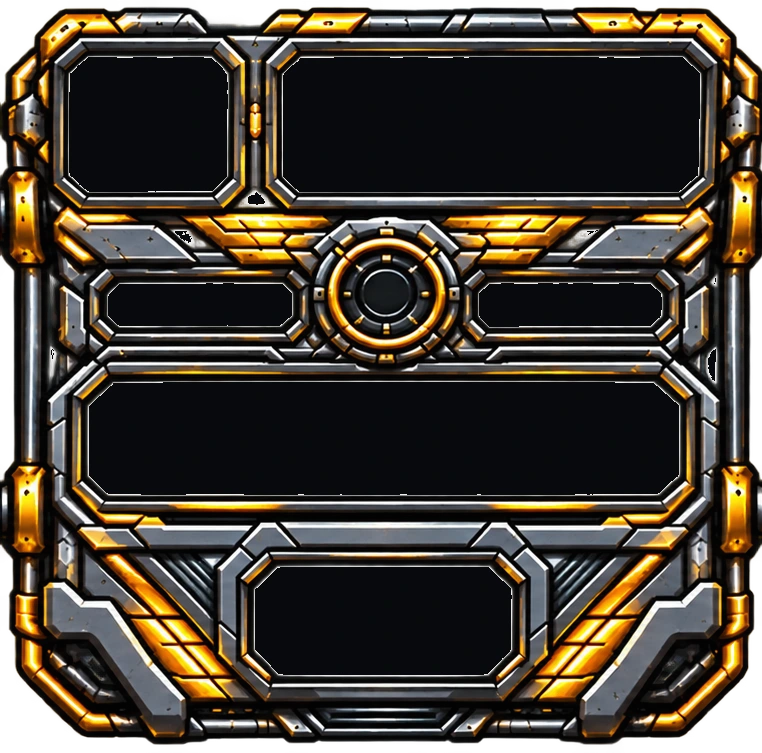
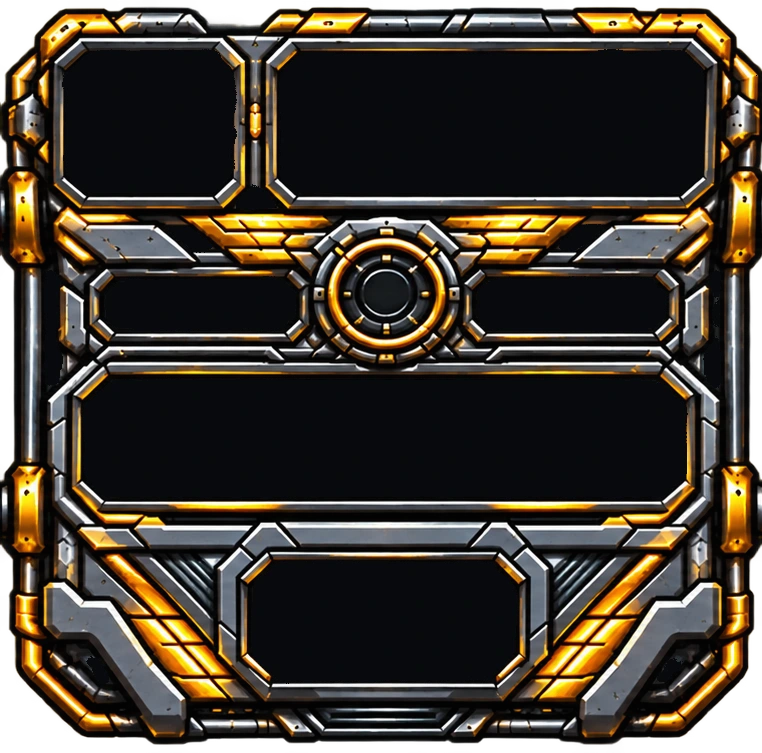
fix(machine): Max comme + et - ; cadre lumineux seulement sur l'afficheur Allouee (plus sur Cible) ; fond des cadres entierement opaque (plus rien de lisible derriere) ; durees longues sans coupure

diff --git a/cloudflare/public/soreal-idle-machine.css b/cloudflare/public/soreal-idle-machine.css
@@ -12,9 +12,9 @@
 .tmm-machine.tmm-sans-magie{grid-template-columns:576fr 762fr}
 /* ---- une carte = une image (576 x 753, 762 x 753, 580 x 753) ---- */
 .tmm-tour,.tmm-centre{position:relative;width:100%;container-type:inline-size;background-repeat:no-repeat;background-position:center;background-size:100% 100%;color:#fff1d6;padding:0;border:0}
-.tmm-gauche{aspect-ratio:576/753;--c1:#1fae52;--c2:#6dff9b;--lcd:#7dffb0;--halo:rgba(80,255,150,.55);background-image:url(/machine-v3/tour-energie.webp?v=1)}
-.tmm-droite{aspect-ratio:580/753;--c1:#2f6bff;--c2:#7fc4ff;--lcd:#9fd0ff;--halo:rgba(90,160,255,.6);background-image:url(/machine-v3/tour-magie.webp?v=1)}
-.tmm-centre{aspect-ratio:762/753;z-index:1;background-image:url(/machine-v3/centre.webp?v=1)}
+.tmm-gauche{aspect-ratio:576/753;--c1:#1fae52;--c2:#6dff9b;--lcd:#7dffb0;--halo:rgba(80,255,150,.55);background-image:url(/machine-v3/tour-energie.webp?v=2)}
+.tmm-droite{aspect-ratio:580/753;--c1:#2f6bff;--c2:#7fc4ff;--lcd:#9fd0ff;--halo:rgba(90,160,255,.6);background-image:url(/machine-v3/tour-magie.webp?v=2)}
+.tmm-centre{aspect-ratio:762/753;z-index:1;background-image:url(/machine-v3/centre.webp?v=2)}
 /* tailles en border-box : un rembourrage ne doit jamais élargir un élément posé dans un emplacement */
 .tmm-tour,.tmm-tour *,.tmm-centre,.tmm-centre *{box-sizing:border-box}
 /* ÉCRITURES SPÉCIALES : Orbitron, inclinée, lueur et double image décalée (cyan / magenta) comme un écran qui saute dans le temps ; seulement du texte statique (aucune animation, aucune ombre floue animée) */
@@ -45,7 +45,8 @@
 .tmm-droite .tmm-lcds>.tmm-lcd:nth-child(1){left:15.86%;width:53.97%}
 .tmm-droite .tmm-lcds>.tmm-lcd:nth-child(2){left:16.03%;width:53.79%}
 .tmm-lcd-titre,.tmm-case-titre{display:block;font-size:1.8cqw;font-weight:700;letter-spacing:.12em;color:#8fa6b8;font-style:normal;text-transform:uppercase;white-space:nowrap;overflow:hidden;text-overflow:ellipsis;transform:skewX(-8deg);transform-origin:left center}
-.tmm-lcd-val,.tmm-case-val,.tmm-machine .tmm-case input[type=number]{display:block;font-size:6.2cqw;line-height:1.05;font-weight:700;text-align:right;color:var(--lcd);font-variant-numeric:tabular-nums;white-space:nowrap;overflow:hidden;text-overflow:ellipsis;transform:skewX(-8deg);transform-origin:right center;text-shadow:-.25cqw 0 rgba(0,255,255,.35),.25cqw 0 rgba(255,0,200,.3),0 0 1.4cqw var(--halo)}
+.tmm-lcd-val,.tmm-case-val,.tmm-machine .tmm-case input[type=number]{display:block;font-size:5.4cqw;line-height:1.05;font-weight:700;text-align:right;color:var(--lcd);font-variant-numeric:tabular-nums;white-space:nowrap;overflow:hidden;text-overflow:ellipsis;transform:skewX(-8deg);transform-origin:right center;text-shadow:-.25cqw 0 rgba(0,255,255,.35),.25cqw 0 rgba(255,0,200,.3),0 0 1.4cqw var(--halo)}
+.tmm-lcd-val[data-tm-lcd-eta]{font-size:4.5cqw}
 /* la barre du « temps restant » faisait double emploi avec le tube (Norman, 2026-11-06) : retirée de l'affichage ; l'élément reste dans la page car le code en direct y lit et y écrit le niveau de remplissage qui pilote le tube */
 .tmm-barre{display:none}
 .tmm-rempl{height:100%;width:0}
@@ -62,7 +63,8 @@
 .tmm-boutons button{height:100%;min-width:0;padding:0;border:0;border-radius:1.2cqw;background:none;color:var(--c2);font-size:5cqw;font-weight:700;line-height:1;letter-spacing:.02em;cursor:pointer;text-shadow:-.25cqw 0 rgba(0,255,255,.35),.25cqw 0 rgba(255,0,200,.3),0 0 1.2cqw var(--halo)}
 .tmm-boutons button:first-child,.tmm-boutons button:nth-child(2){font-size:6.2cqw}
 .tmm-boutons button:active{transform:translateY(.4cqw)}
-.tmm-boutons button.max{background:var(--c1);color:#fff;font-size:3.9cqw;text-shadow:none}
+/* « Max » : même écriture et même fond que + et − (Norman, 2026-11-07), seulement un peu plus petit pour tenir dans son emplacement */
+.tmm-boutons button.max{font-size:4.2cqw}
 /* Cible et Allouée : les deux petits afficheurs sous « temps restant » (une seule ligne : le titre à gauche, la valeur à droite) */
 .tmm-ligne{position:absolute;left:31.25%;width:52.95%;top:72.64%;height:4.25%;display:grid;grid-template-columns:minmax(0,1fr) minmax(0,1fr);column-gap:18%}
 .tmm-droite .tmm-ligne{left:16.21%;width:52.76%;column-gap:18.3%}

diff --git a/cloudflare/public/index.html b/cloudflare/public/index.html
@@ -36,7 +36,7 @@
   <link rel="stylesheet" href="/soreal-idle-barre-outils.css?v=13">
   <link rel="stylesheet" href="/soreal-idle-entetes-compactes-v1.css?v=3">
   <link rel="stylesheet" href="/soreal-idle-renaissance.css?v=3">
-  <link rel="stylesheet" href="/soreal-idle-machine.css?v=18">
+  <link rel="stylesheet" href="/soreal-idle-machine.css?v=21">
   <link rel="stylesheet" href="/soreal-idle-album.css?v=35">
   <link rel="stylesheet" href="/soreal-idle-album-titans.css?v=2">
   <link rel="stylesheet" href="/soreal-idle-entetes-a.css?v=5">
@@ -232,7 +232,7 @@
   <script defer src="/modules/text-helpers-v1.js?v=1"></script>
   <script defer src="/modules/inventory-presentation-v1.js?v=1"></script>
   <script defer src="/modules/text-transforms-v1.js?v=2"></script>
-  <script defer src="/modules/release-notes-nouveautes-v1.js?v=191"></script>
+  <script defer src="/modules/release-notes-nouveautes-v1.js?v=192"></script>
   <script defer src="/modules/release-notes-v1.js?v=829"></script>
   <script defer src="/modules/flux-v1.js?v=45"></script>
   <script defer src="/modules/nouvelle-version-v1.js?v=3"></script>
@@ -240,7 +240,7 @@
   <script defer src="/modules/sang-rituel-decor-v1.js?v=237"></script>
   <script defer src="/modules/blood-magic-v1.js?v=31"></script>
   <script defer src="/modules/ngu-labo-v1.js?v=102"></script>
-  <script defer src="/modules/barres-actives-v1.js?v=7"></script>
+  <script defer src="/modules/barres-actives-v1.js?v=8"></script>
   <script defer src="/modules/barre-allocation-v1.js?v=12"></script>
   <script defer src="/modules/perso-boutons-v1.js?v=18"></script>
   <script defer src="/modules/cartes-v1.js?v=1"></script>

diff --git a/cloudflare/public/modules/release-notes-nouveautes-v1.js b/cloudflare/public/modules/release-notes-nouveautes-v1.js
@@ -3,8 +3,5 @@
  * FICHIER GÉNÉRÉ par `node cloudflare/tools/marquer-nouveautes-push.mjs` (à lancer avant le commit d'un push ; la liste est remplacée, jamais cumulée). Ne pas l'éditer à la main.
  */
 (function(){
-  window.__SOREAL_IDLE_NOTES_NOUVEAUTES_V1__ = { lignes: [
-    "Pendant un combat, la borne n’a plus d’animation de personnage (le bonhomme qui court, le clown, la tronçonneuse, Twin Peaks et les hommes qui rient sont retirés pour l’instant, ils reviendront plus tard) : à la place, elle a des yeux ! Ils apparaissent dès le lancement du combat et regardent la barre de vie du boss. Leur humeur suit le combat : concentrés, déterminés quand le boss faiblit, ravis quand il va tomber, inquiets puis apeurés quand ta vie baisse, avec une grimace à chaque coup reçu. Victoire : yeux heureux et étincelles. Défaite : deux croix.",
-    "La Machine temporelle change encore de look sur PC (nouvelle image) : un petit écran pour l’image du boss, avec un effet d’écran (lignes de balayage, bords sombres, bande lumineuse qui descend), et un autre écran pour son nom et son butin. Les afficheurs ont des écritures de science-fiction, inclinées, comme un écran qui saute dans le temps. Le tas d’Or en bas est maintenant un vrai tas de pièces, et chaque pièce entre par le haut de la sortie et tombe dedans. Le socle de l’Énergie n’a plus qu’un seul grand rouage, vert, et le cadran n’a plus que son aiguille."
-  ] };
+  window.__SOREAL_IDLE_NOTES_NOUVEAUTES_V1__ = { lignes: [] };
 })();

diff --git a/cloudflare/public/modules/barres-actives-v1.js b/cloudflare/public/modules/barres-actives-v1.js
@@ -16,7 +16,7 @@ var MENUS={
   entrainement:{alloc:'.soreal-idle-bt-allocation-v120',ligne:'.soreal-idle-bt-row-v120',style:'braise',sansParticules:true},   /* Basic Training : cadre lumineux, aucune particule (Norman, 2026-11-03 : « enlève les particules dans basic training pour les barres actives ») */
   augmentations:{alloc:'.soreal-idle-bt-allocation-v120',ligne:'.aug-piste-v2',style:'etoile',sansParticules:true},
   avance:{alloc:'[id^="sorealIdleAtAlloc_"]',ligne:'.soreal-idle-at-ligne-v1',style:'bit'},
-  machine:{alloc:'[id^="sorealIdleTmAllocV1_"]',ligne:'.tmm-ligne',style:'piece'},
+  machine:{alloc:'[id^="sorealIdleTmAllocV1_"]',ligne:'.tmm-case',style:'piece'},
   sang:{alloc:'[id^="sorealIdleBloodRitualAllocV1_"]',ligne:'.bm-rituel',style:'goutte'}
   /* NGU n'a plus cette aura (Norman, 2026-10-12) : il a la sienne, DANS le tuyau (aurore, modules/ngu-labo-v1.js) */
 };
